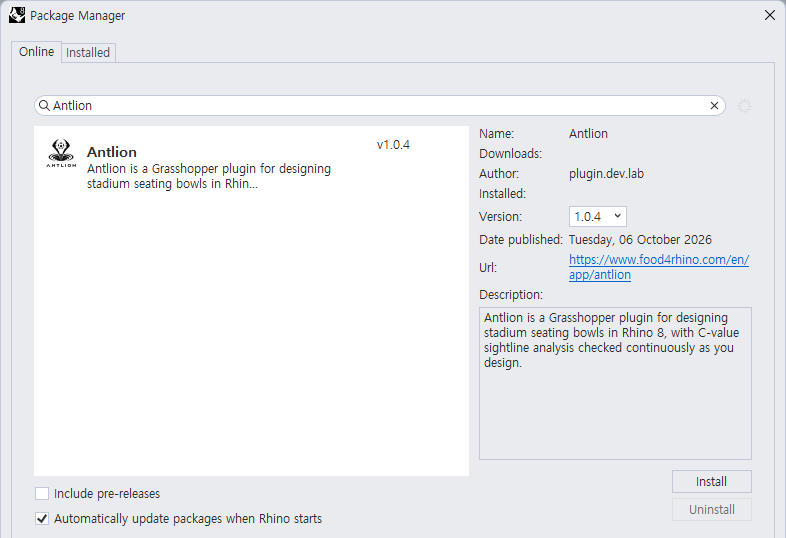
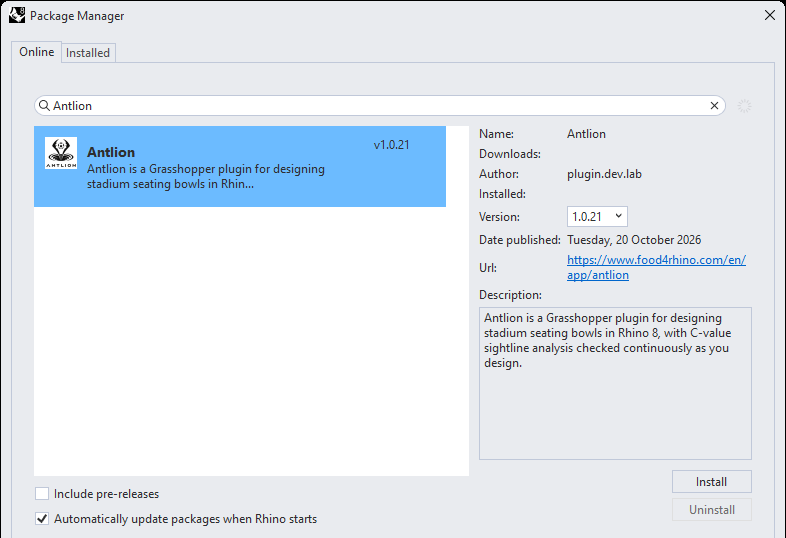
Getting started: package manager screenshot at 1.0.21

diff --git a/_includes/antlion-ribbon.html b/_includes/antlion-ribbon.html
@@ -122,7 +122,7 @@ wire them through to the next component.
 ## How to read the port pages
 
 ```
-3. `Focal Height`  ·  nick `Focal H` — `Number` `item` · default `1500 mm / 60 in` · optional
+1. `Solid Heights`  ·  nick `Solid H` — `Number` `list` · default `600 mm / 24 in` · optional
    - (the plugin's tooltip text, extracted from source)
 ```
 
